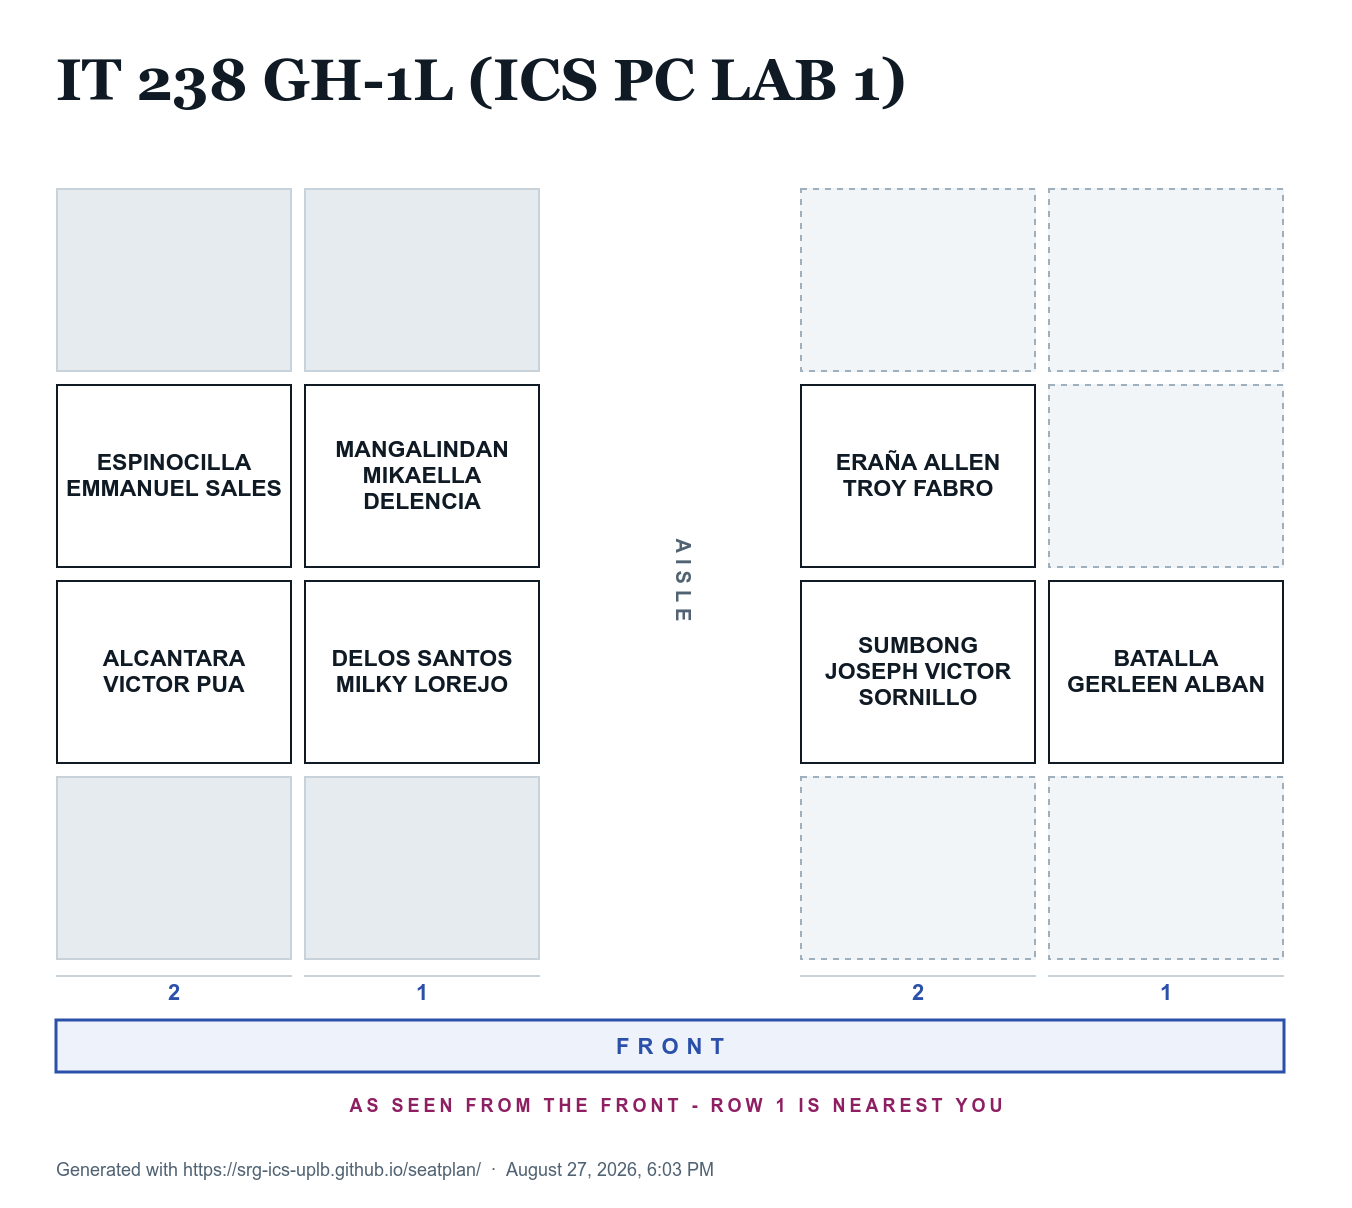
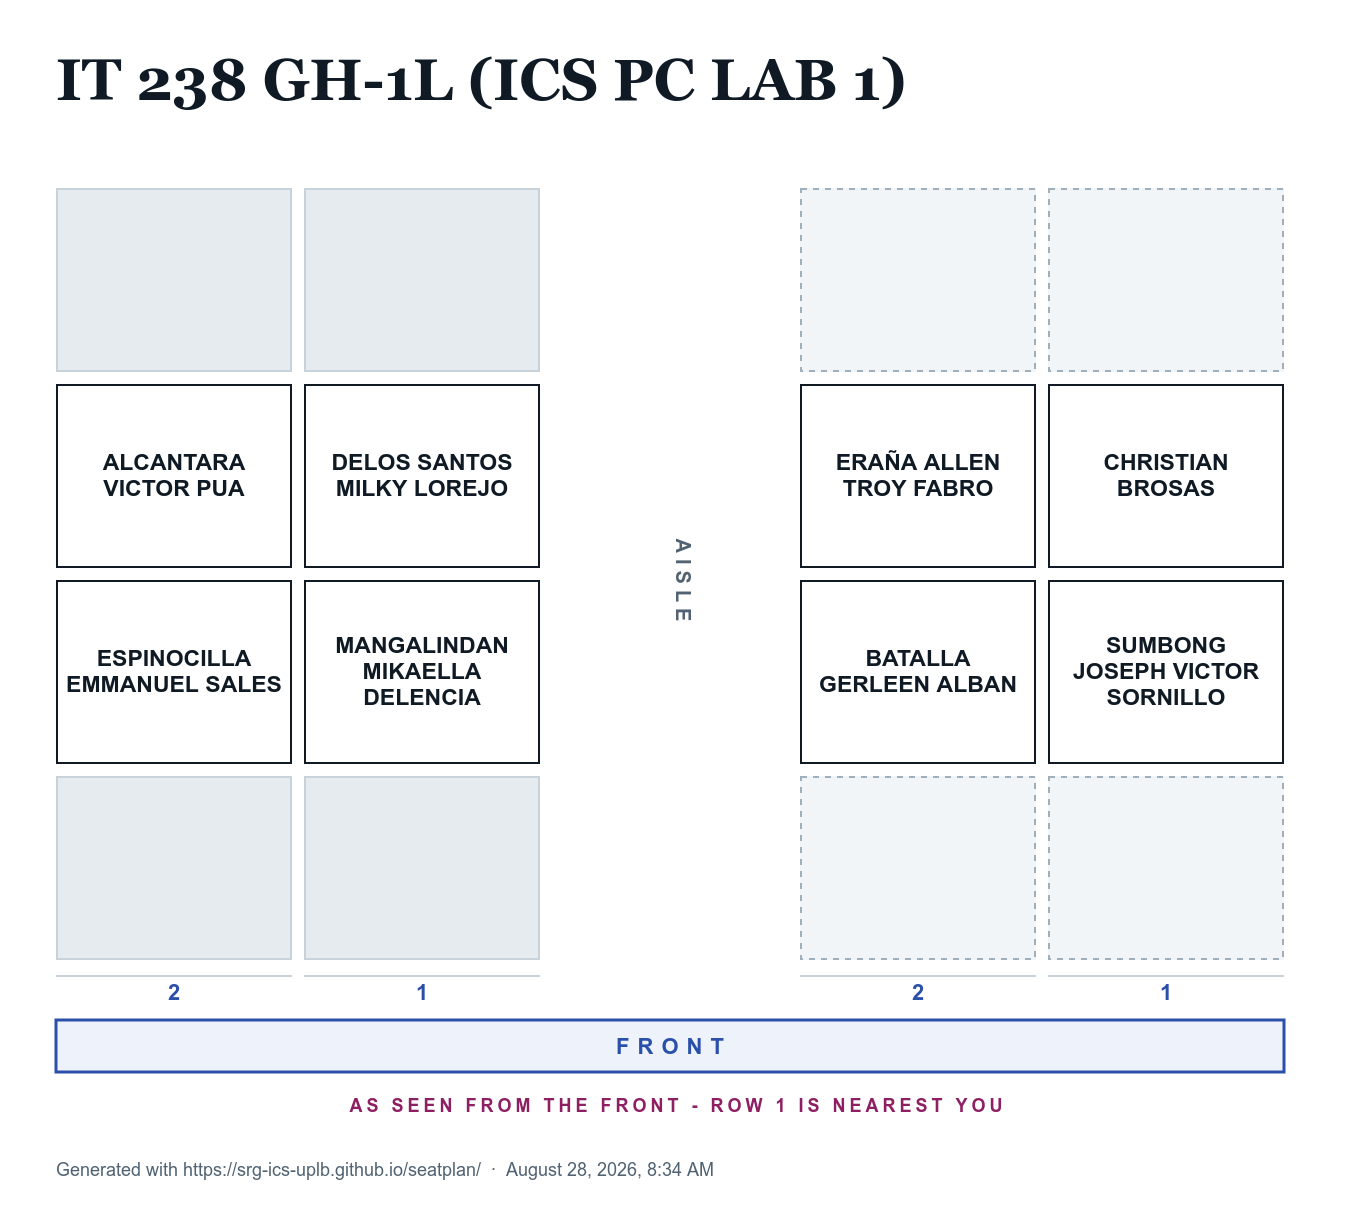
edits

diff --git a/2026-1/index.html b/2026-1/index.html
@@ -289,7 +289,7 @@
                            <td>Networking and Internetworking<ul><li>Types of Networks</li><li>Network Principles</li><li>TCP/IP Protocols</li></ul></td>
                            <td>Module 3</td>
                            <td></td>
-                           <td>TBA</td>
+                           <td>(no meeting)</td>
                         </tr>
                         <tr>
                            <th scope="row">4</th>
@@ -297,7 +297,7 @@
                            <td>Interprocess Communications<ul><li>API for Internet Protocols</li><li>Data Representation and Marshalling</li><li>Multicast Communication</li><li>Overlay Networks</li></ul></td>
                            <td>Module 4</td>
                            <td>Project Presentation 1 (F2F 5:00 PM)</td>
-                           <td>TBA</td>
+                           <td>gRPC Client-Server System</td>
                         </tr>
                         <tr>
                            <th scope="row">5</th>
